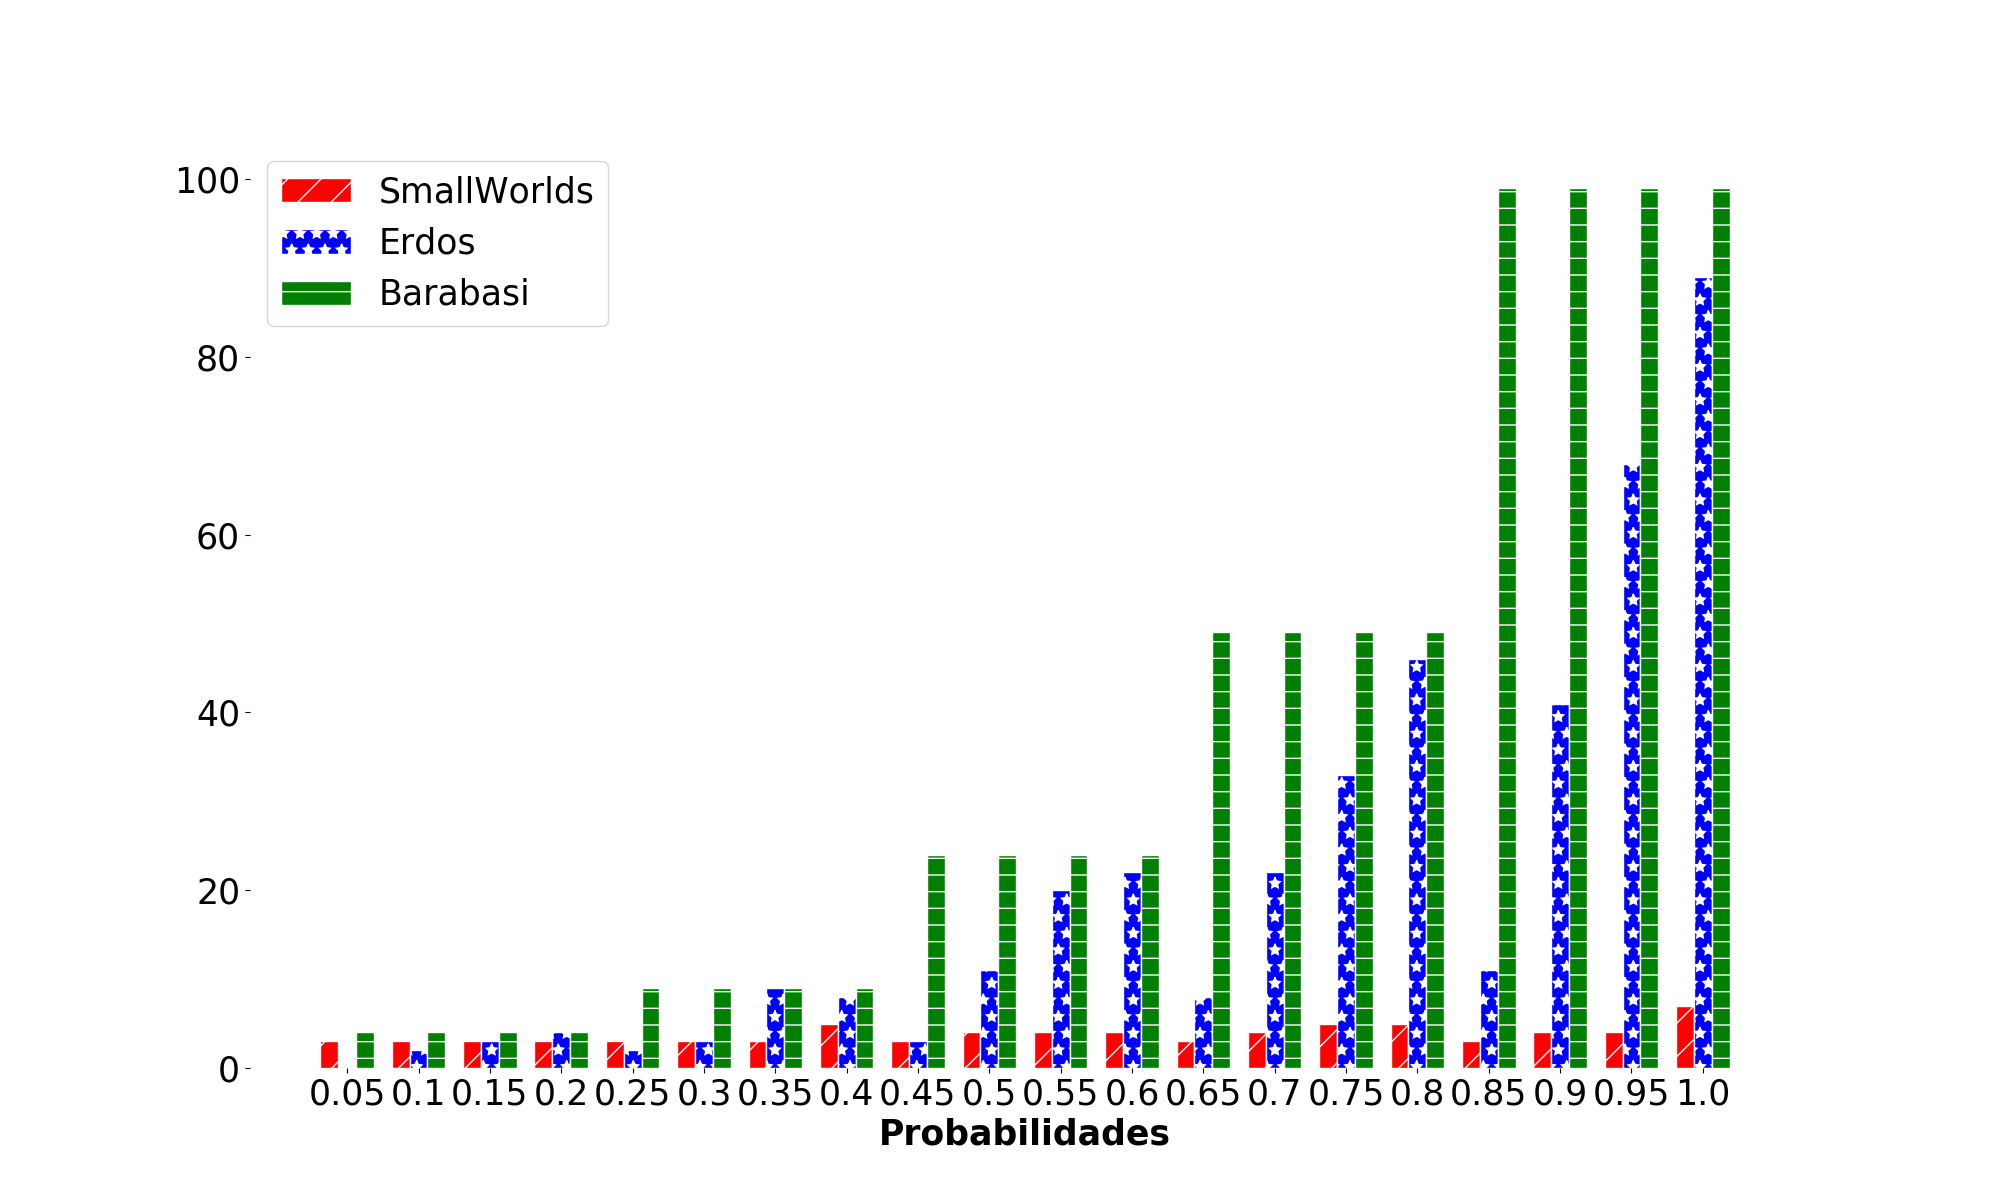
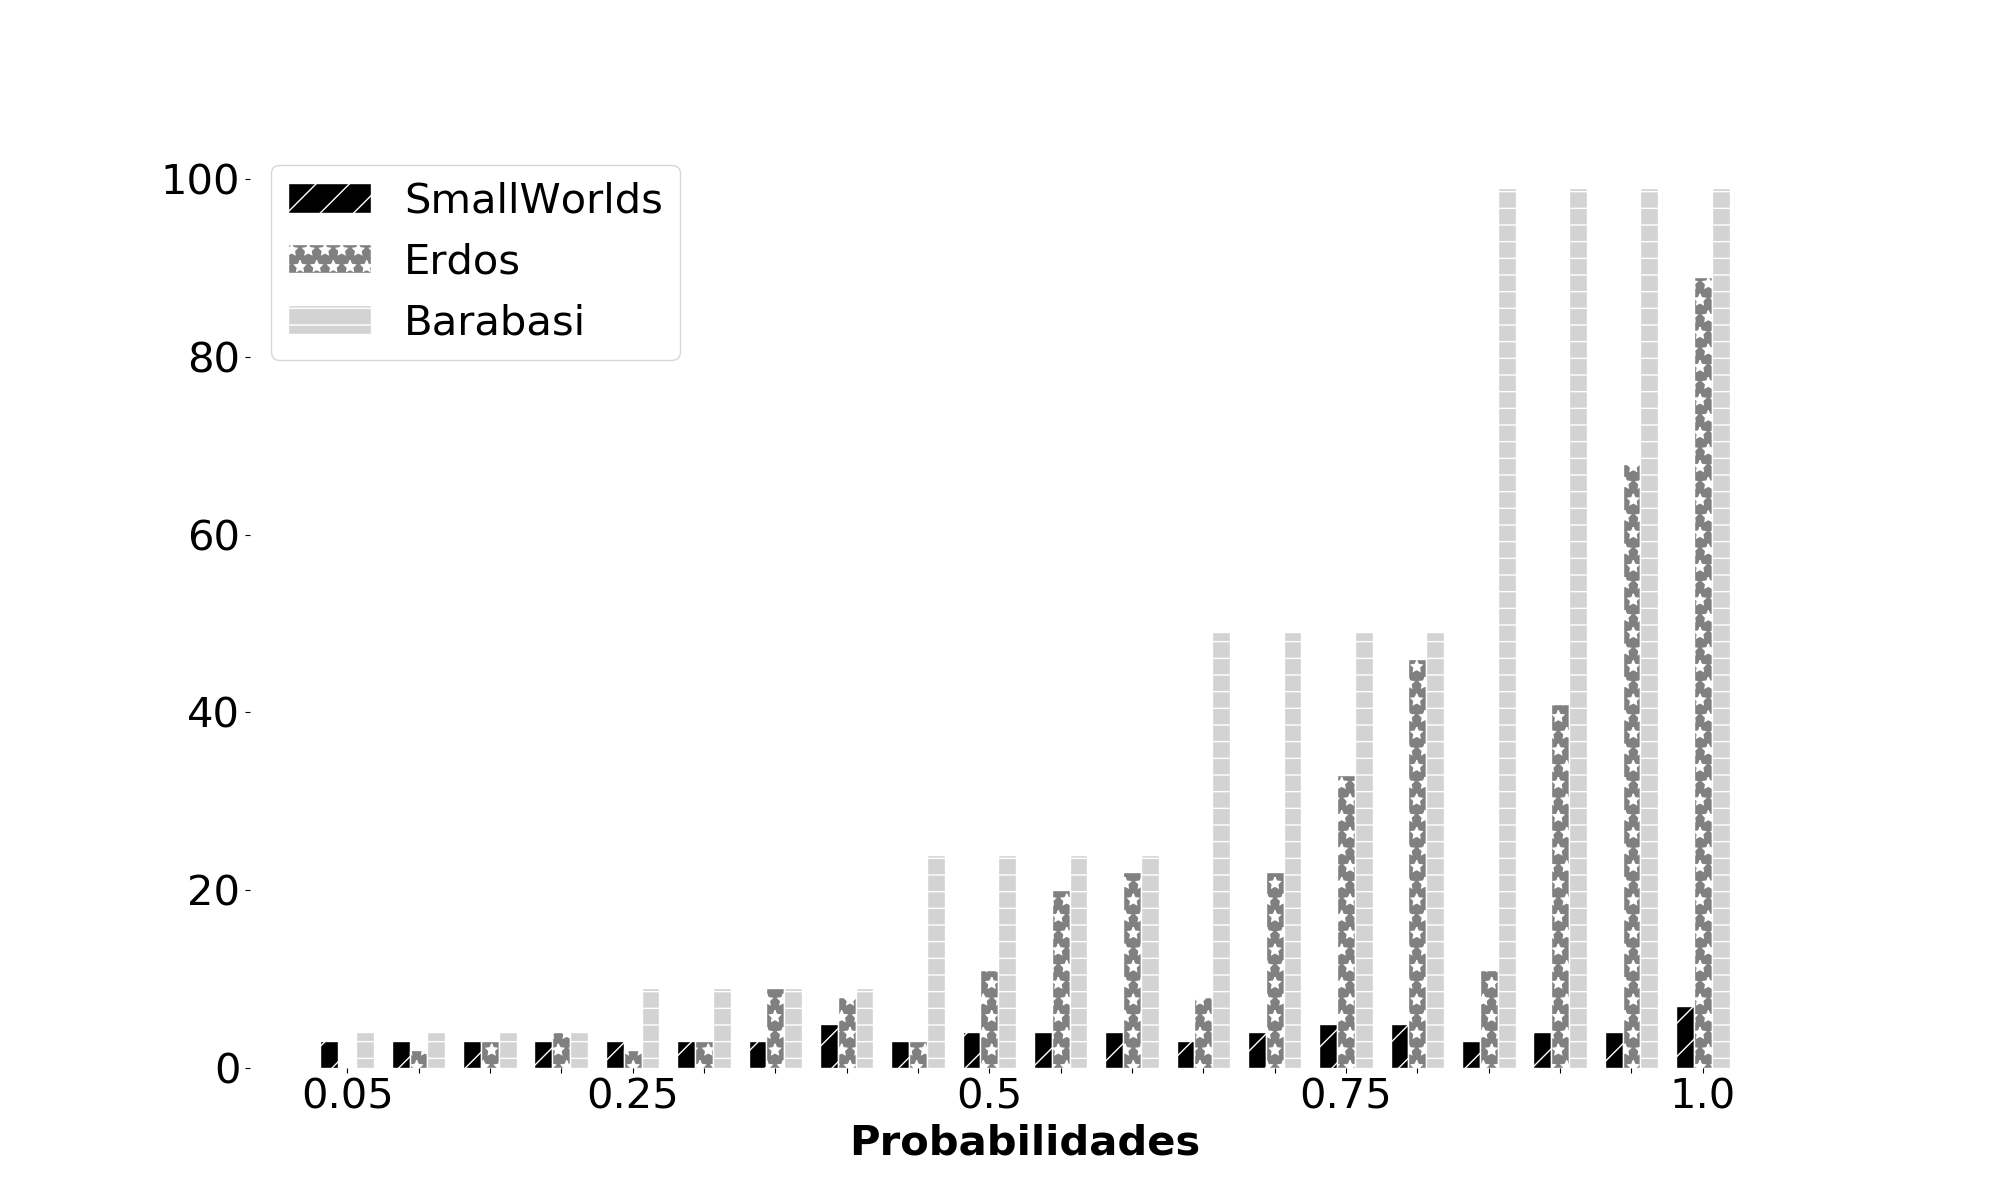
Ajuste nos gráfios

diff --git a/plot_chart.py b/plot_chart.py
@@ -36,11 +36,14 @@ class PlotChart:
         bar_width = 0.25
 
         for i in range(4):
+            # bars1 = [bars1extra[i] for i in range(len(bars1extra))if i % 2 == 0]
+            # bars2 = [bars2extra[i] for i in range(len(bars2extra))if i % 2 == 0]
+            # bars3 = [bars3extra[i] for i in range(len(bars3extra))if i % 2 == 0]
+
             # set height of bar
             bars1 = small_world_array[i].tolist()
             bars2 = erdos_array[i].tolist()
             bars3 = albert_barabasi_array[i].tolist()
-            # print(bars1)
             # Set position of bar on X axis
             r1 = np.arange(len(bars1))
             r2 = [x + bar_width for x in r1]
@@ -50,15 +53,15 @@ class PlotChart:
             title = self.__get_title_metric(i) + "" + n_name
             ax = plt.subplot(111, frame_on=False)  # no visible frame
             # ax.set_title(title, fontdict={'fontsize': 15, 'fontweight': 'medium'})
-            plt.bar(r1, bars1, color='r', width=bar_width, edgecolor='white', label='SmallWorlds', hatch="/")
-            plt.bar(r2, bars2, color='b', width=bar_width, edgecolor='white', label='Erdos', hatch='*')
-            plt.bar(r3, bars3, color='g', width=bar_width, edgecolor='white', label='Barabasi', hatch='-')
+            plt.bar(r1, bars1, color='k', width=bar_width, edgecolor='white', label='SmallWorlds', hatch="/")
+            plt.bar(r2, bars2, color='grey', width=bar_width, edgecolor='white', label='Erdos', hatch='*')
+            plt.bar(r3, bars3, color='lightgrey', width=bar_width, edgecolor='white', label='Barabasi', hatch='-')
             
             # Add xticks on the middle of the group bars
             plt.xlabel('Probabilidades', fontweight='bold')
             plt.xticks([r + bar_width for r in range(len(bars1))], Constants.P_ARRAY)
             plt.legend()
-            plt.rcParams.update({'font.size': 25})
+            plt.rcParams.update({'font.size': 30})
             plt.savefig('charts/' + title + '.png')
             plt.close()
 

diff --git a/constants.py b/constants.py
@@ -3,5 +3,5 @@ class Constants:
     #N_ARRAY = [5, 10]
     N_ARRAY = [5, 10, 25, 50, 100]
     #P_ARRAY = [0.05, 0.50, 0.99]
-    P_ARRAY = [0.05, 0.10, 0.15, 0.20, 0.25, 0.30, 0.35, 0.40, 0.45, 0.50, 0.55, 0.60, 0.65, 0.70, 0.75, 0.80, 0.85, 0.90, 0.95, 1.00]
+    P_ARRAY = [0.05, " ", " ", " ", 0.25, " ", " ", " ", " ", 0.50, " ", " ", " ", " ", 0.75, " ", " ", " ", " ", 1.00]
 
